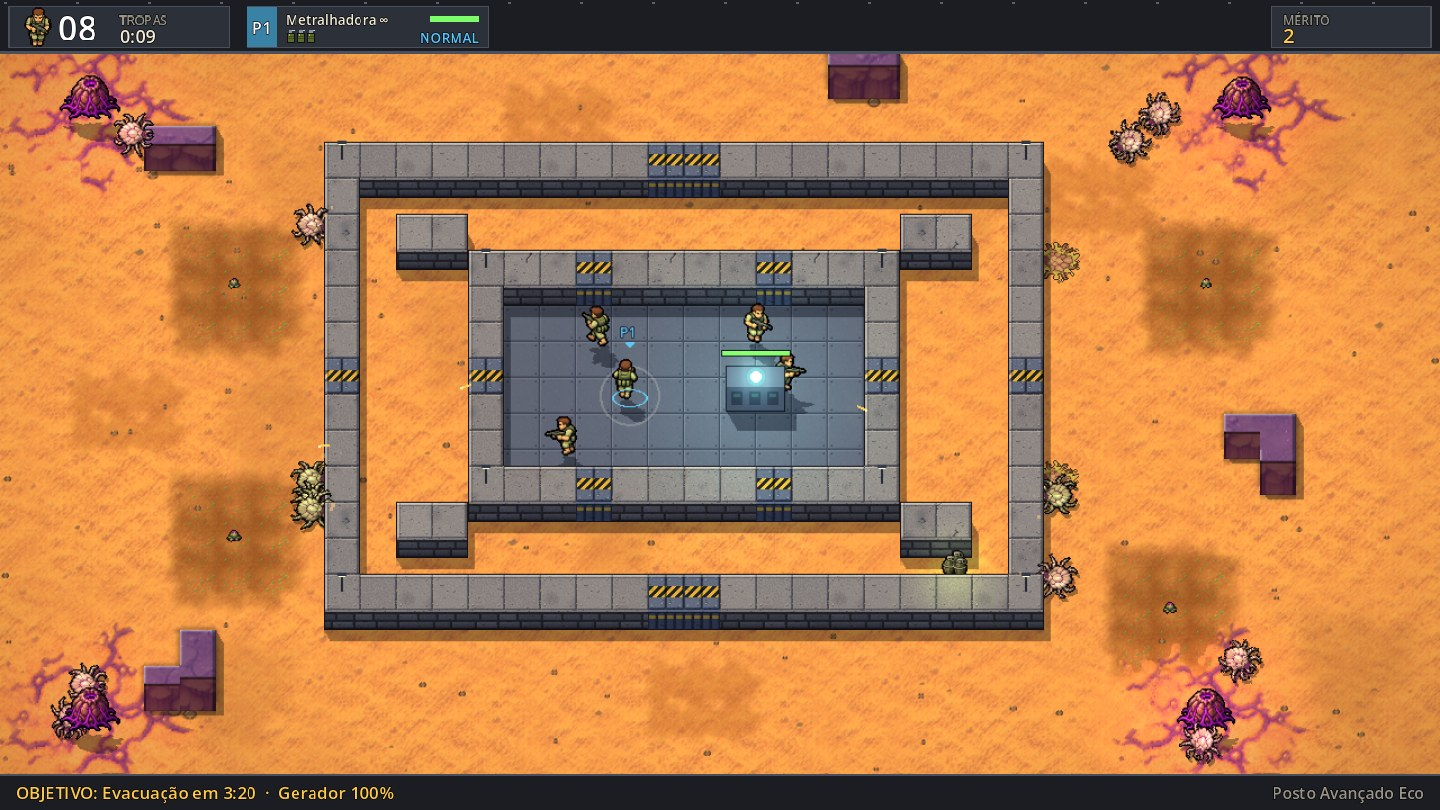
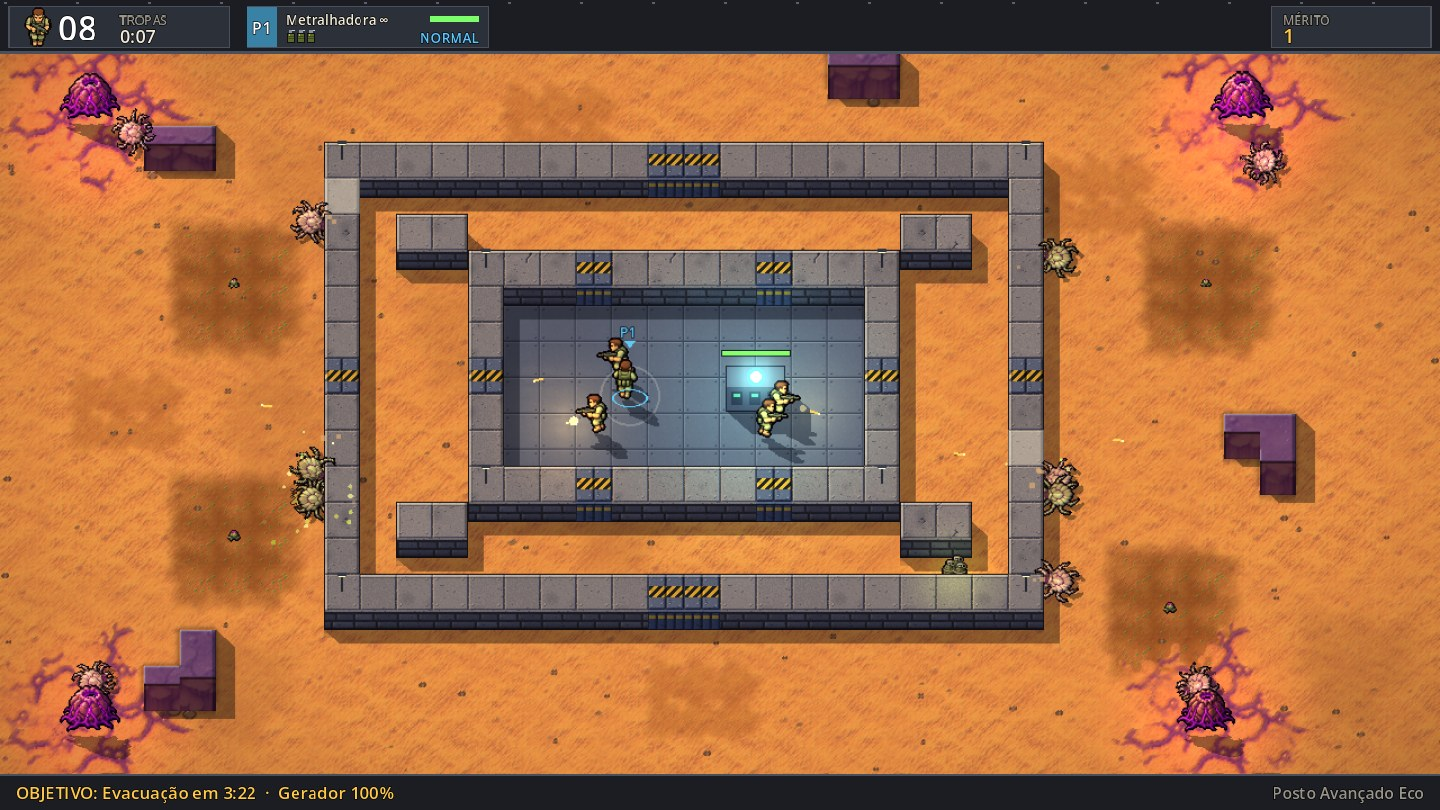
Goo splash on bullet hits; ambience for every mission (stage 2)
Hit effect
- Bullets hitting a bug or nest now pop and throw a few goo droplets
  along the shot direction (2 on larvae, 3 on spiders, 7 larger ones on
  mothers). Droplets arc, land and leave a splat that fades; kept small
  so dozens of spiders under fire do not clutter the screen. The hit
  blink is unchanged.
- Death and birth bursts (goo, blood) use the same droplets.
- Fx draws from its own RNG and decal seeds come from the position, so
  effects no longer consume world.rng: a presenting world and a ghost
  world now simulate identically (new test).

Ambience (stage 2)
- Presets: dawn, noon, afternoon, storm, dusk, hive. The campaign reads
  as one day: m1 dawn, m2 noon, m3 afternoon, m4 sandstorm, m5 dusk,
  m6 dark hive interior. Missions.validate checks the preset name.
- Composite shader gains a colour haze (sandstorm).
- Softer wall bite flash and mortar/acid-pool glow.

Tooling: --shot-all=DIR captures all six missions in one window;
after screenshots for the six missions in docs/shots/after.

76 tests pass. Frame rate without V-Sync: about 400 FPS median in a
trench firefight, 880 in the hive.

Changed region(s): [[0.0, 0.0617, 1.0, 0.9568], [0.875, 0.0309, 0.9062, 0.0617]]

diff --git a/docs/GDD.md b/docs/GDD.md
@@ -312,7 +312,8 @@ e não entra nos snapshots. O teste `_test_visuals` confere que ligar a parte vi
 | Peça | Arquivo | O que faz |
 |---|---|---|
 | Palco | `scripts/world/stage.gd` | O mundo é desenhado num `SubViewport` fixo de 1280×640 e composto na tela por `shaders/composite.gdshader` (ampliação nítida, brilho, cor, vinheta). O HUD fica fora, na resolução da janela |
-| Clima | `scripts/world/ambience.gd` | Predefinições por hora do dia (`day`, `dusk`): luz ambiente, sol, sombras, postes, saturação do chão e cor final. A missão escolhe com `ambience = "..."` |
+| Clima | `scripts/world/ambience.gd` | Predefinições por hora do dia: luz ambiente, sol, sombras, postes, saturação do chão e cor final. A missão escolhe com `ambience = "..."`. A campanha é um dia: 1 amanhecer (`dawn`) · 2 meio-dia (`noon`) · 3 tarde (`afternoon`) · 4 tempestade de areia (`storm`) · 5 entardecer (`dusk`) · 6 interior escuro (`hive`) |
+| Gosma | `Fx.hit`, `Fx.goo` | Tiro que acerta um inseto solta um estalo e poucas gotas no sentido do tiro (2 no filhote, 3 na aranha, 7 e maiores na matriarca); as gotas saltam, caem e deixam um respingo que some. De propósito discreto, para não poluir com dezenas de aranhas levando tiro. Luz própria, sem halo |
 | Luz | `scripts/world/lighting.gd` | `CanvasModulate` (ambiente) + `DirectionalLight2D` (sol) + luzes pontuais: fixas (gerador, postes nos cantos dos muros, portões, ácido, ninhos, relés), seguidoras (plasma, chamas, pickups, poças) e clarões (tiros, explosões), que nascem das chamadas de `Fx` |
 | Relevo | `tools/build_normals.py`, `Art.lit()` | Mapa de relevo (normal map) por sprite, gerado da silhueta e do brilho; o do terreno sai do brilho da textura em tempo de carga. Desenhos sem relevo usam `Art.flat_material()` para receber a mesma luz que o chão |
 | Sombra | `scripts/world/shadows.gd` | Silhuetas inclinadas das unidades e prismas dos muros/rochas na direção do sol, num `CanvasGroup` (sombras sobrepostas não escurecem em dobro). O chão sai em duas imagens (base e platôs) e as sombras ficam entre elas |
@@ -328,9 +329,10 @@ próximos do mesmo tipo se fundem num só.
 **Custo medido** (RTX 4060 de notebook, Fortaleza Bastião, sem V-Sync): ~3,6 ms por quadro no alto contra ~2,7 ms
 antes da reforma. O renderizador continua o Compatibility (não foi preciso trocar para ter brilho).
 
-**Etapas**: 0 base técnica e 1 missão-piloto (Fortaleza Bastião ao entardecer) — feitas · 2 clima e luz em todas as
-missões · 3 terreno e estruturas com volume (Blender) · 4 atmosfera (poeira, névoa, calor) · 5 impacto (onda de
-choque, fumaça iluminada). Comparação em `docs/shots/before` e `docs/shots/after`.
+**Etapas**: 0 base técnica, 1 missão-piloto (Fortaleza Bastião ao entardecer) e 2 clima e luz em todas as
+missões — feitas · 3 terreno e estruturas com volume (Blender) · 4 atmosfera (poeira, névoa, calor) · 5 impacto
+(onda de choque, fumaça iluminada). Comparação em `docs/shots/before` e `docs/shots/after`
+(`-- --shot-all=PASTA` tira as seis numa janela só).
 
 ---
 

diff --git a/CLAUDE.md b/CLAUDE.md
@@ -13,7 +13,8 @@ Leia `docs/GDD.md` antes de mudar regras, telas ou assets.
 - Mapas das defesas em camadas: `python -I tools/build_maps.py` (imprime os mapas para colar em missions.gd).
 - Rede com 2 instâncias: host `-- --net-host --mission=3 --net-start-when=2 --net-log --quit-after=30` (pode ser
   `--headless`) e cliente `-- --net-join=127.0.0.1 --net-bot --net-log --quit-after=24`. `-- --loopback` = réplica sem rede.
-- Visual: `-- --gfx=alto|medio|baixo`, `-- --seed=N` (screenshot repetível). Relevo dos sprites:
+- Visual: `-- --gfx=alto|medio|baixo`, `-- --seed=N` (screenshot repetível), `-- --shot-all=PASTA --shot-after=8`
+  (as seis missões numa janela só). Relevo dos sprites:
   `python -I tools/build_normals.py` (rode depois de mudar um sprite). Muros: `python -I tools/build_structures.py`.
   FPS: `godot --path . --disable-vsync --print-fps -- --mission=5 --autostart --seed=11 --quit-after=40 > fps.txt 2>&1`
   (sempre para arquivo: pelo pipe o número sai errado).
@@ -35,8 +36,9 @@ Leia `docs/GDD.md` antes de mudar regras, telas ou assets.
 10. Rede: a simulação só produz efeitos via `world.sfx()`, `world.fx.*`, `world.decal_layer.*`, `world.toast()`,
    `world.shake()` (gravam eventos para os clientes). Entidade nova com estado visível = campo novo em
    `Snapshot.encode/decode` + `Replica._create/_apply_ent`, senão o cliente não vê. O teste de loopback pega isso.
-11. Visual (GDD §10): luz, sombra e pós só LEEM o estado — nunca escrevem na simulação nem usam `world.rng`
-   (o teste `_test_visuals` compara a simulação com e sem visual). Emissivo = `Art.unshaded()` +
+11. Visual (GDD §10): luz, sombra, partículas e pós só LEEM o estado — nunca escrevem na simulação nem usam
+   `world.rng` (`Fx` tem o próprio `rnd`; os testes `_test_visuals` e `_test_effects_keep_sim` comparam a simulação
+   com e sem a parte visual). Emissivo = `Art.unshaded()` +
    `visibility_layer = Stage.LAYER_BOTH` no nó e nos pais. Desenho sem mapa de relevo = `Art.flat_material()`,
    senão fica mais claro que o chão. Máximo de 16 luzes por item: clarão novo passa por `world.lights.flash()`.
    Clima de missão só em `scripts/world/ambience.gd`.
